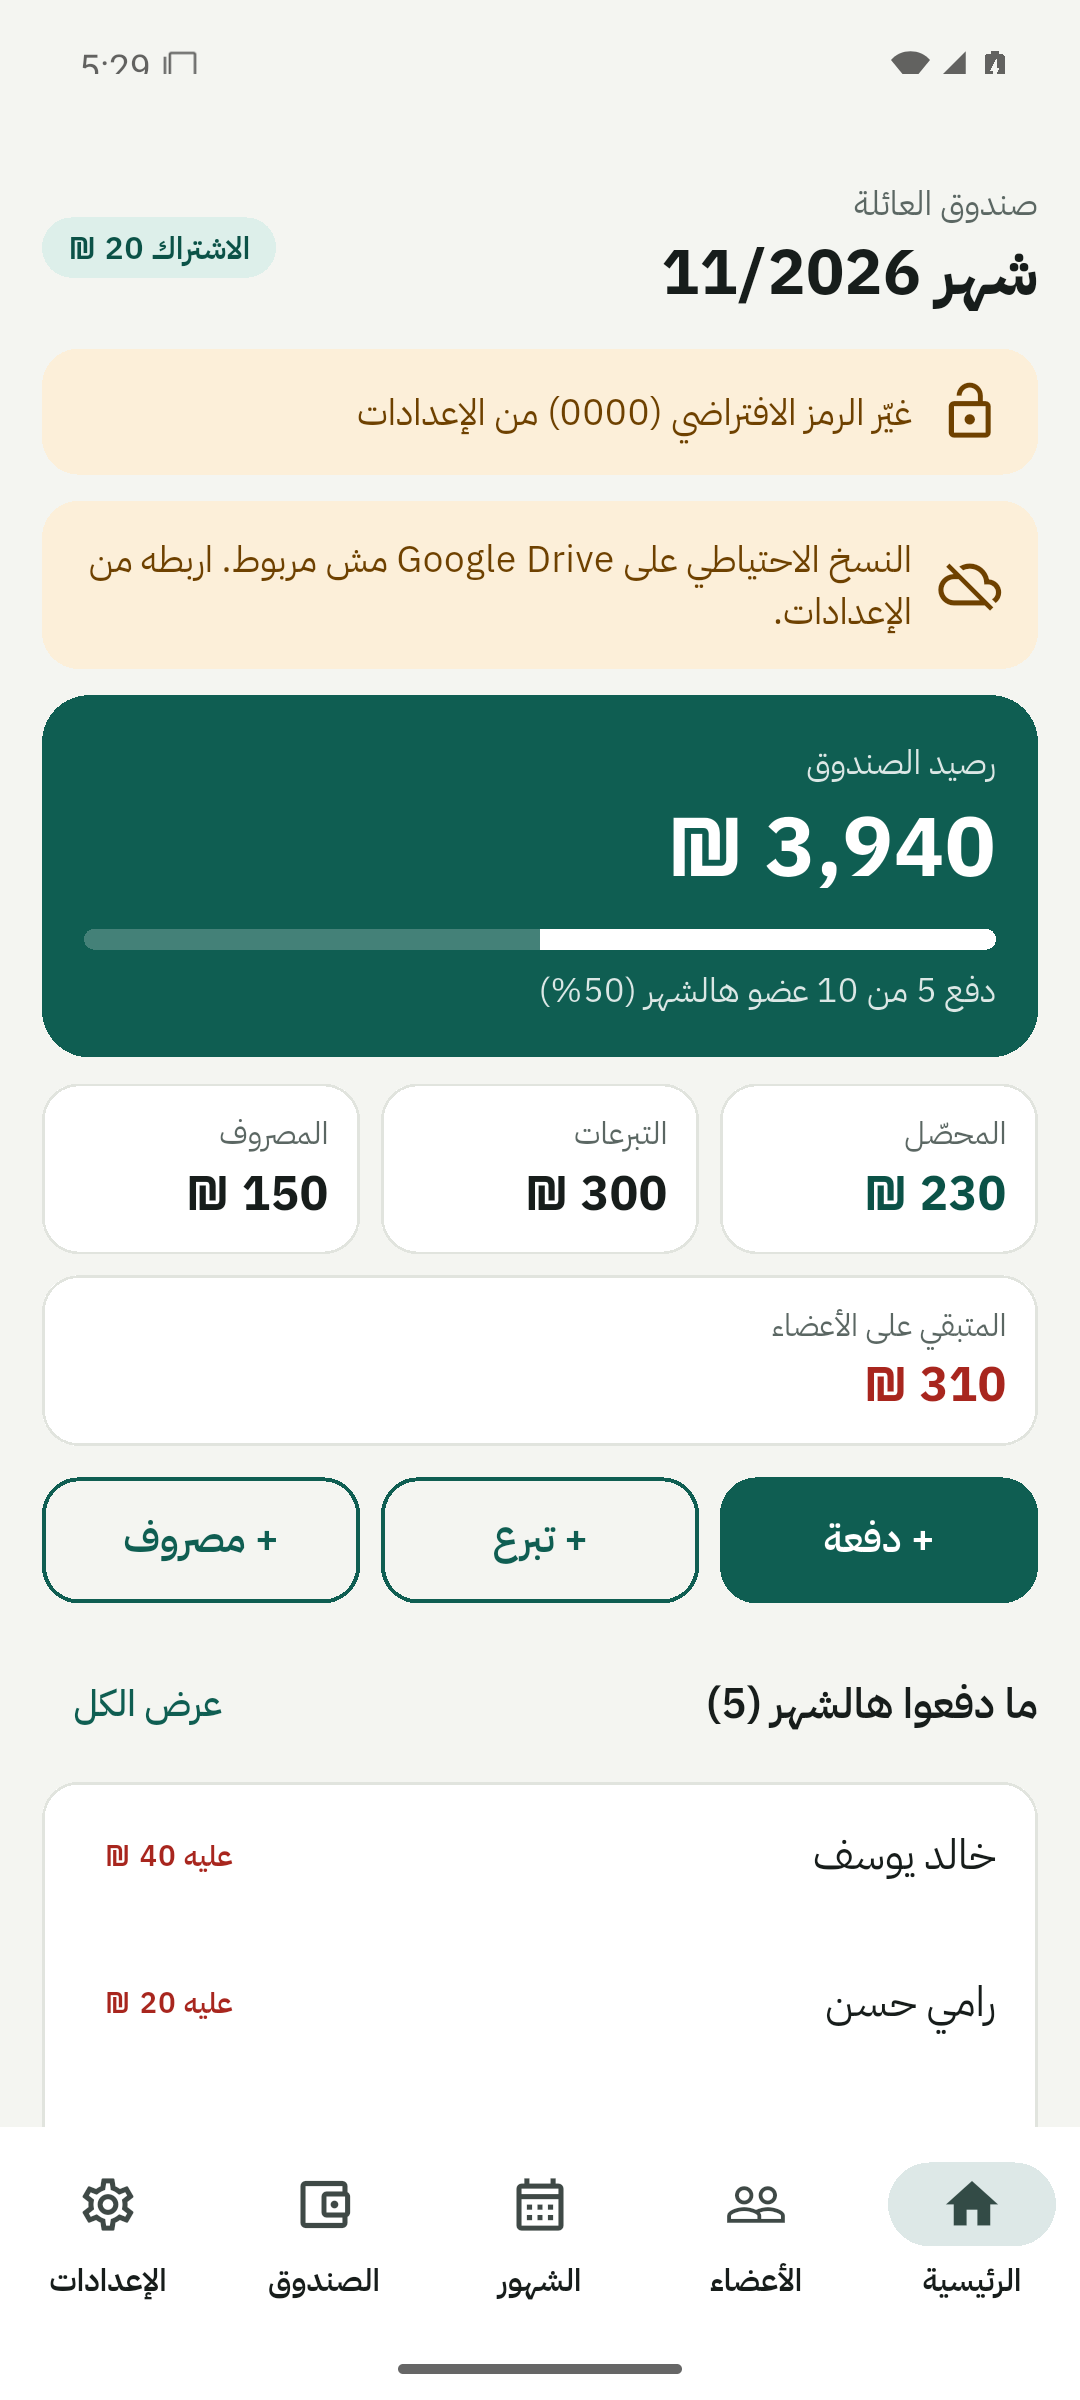
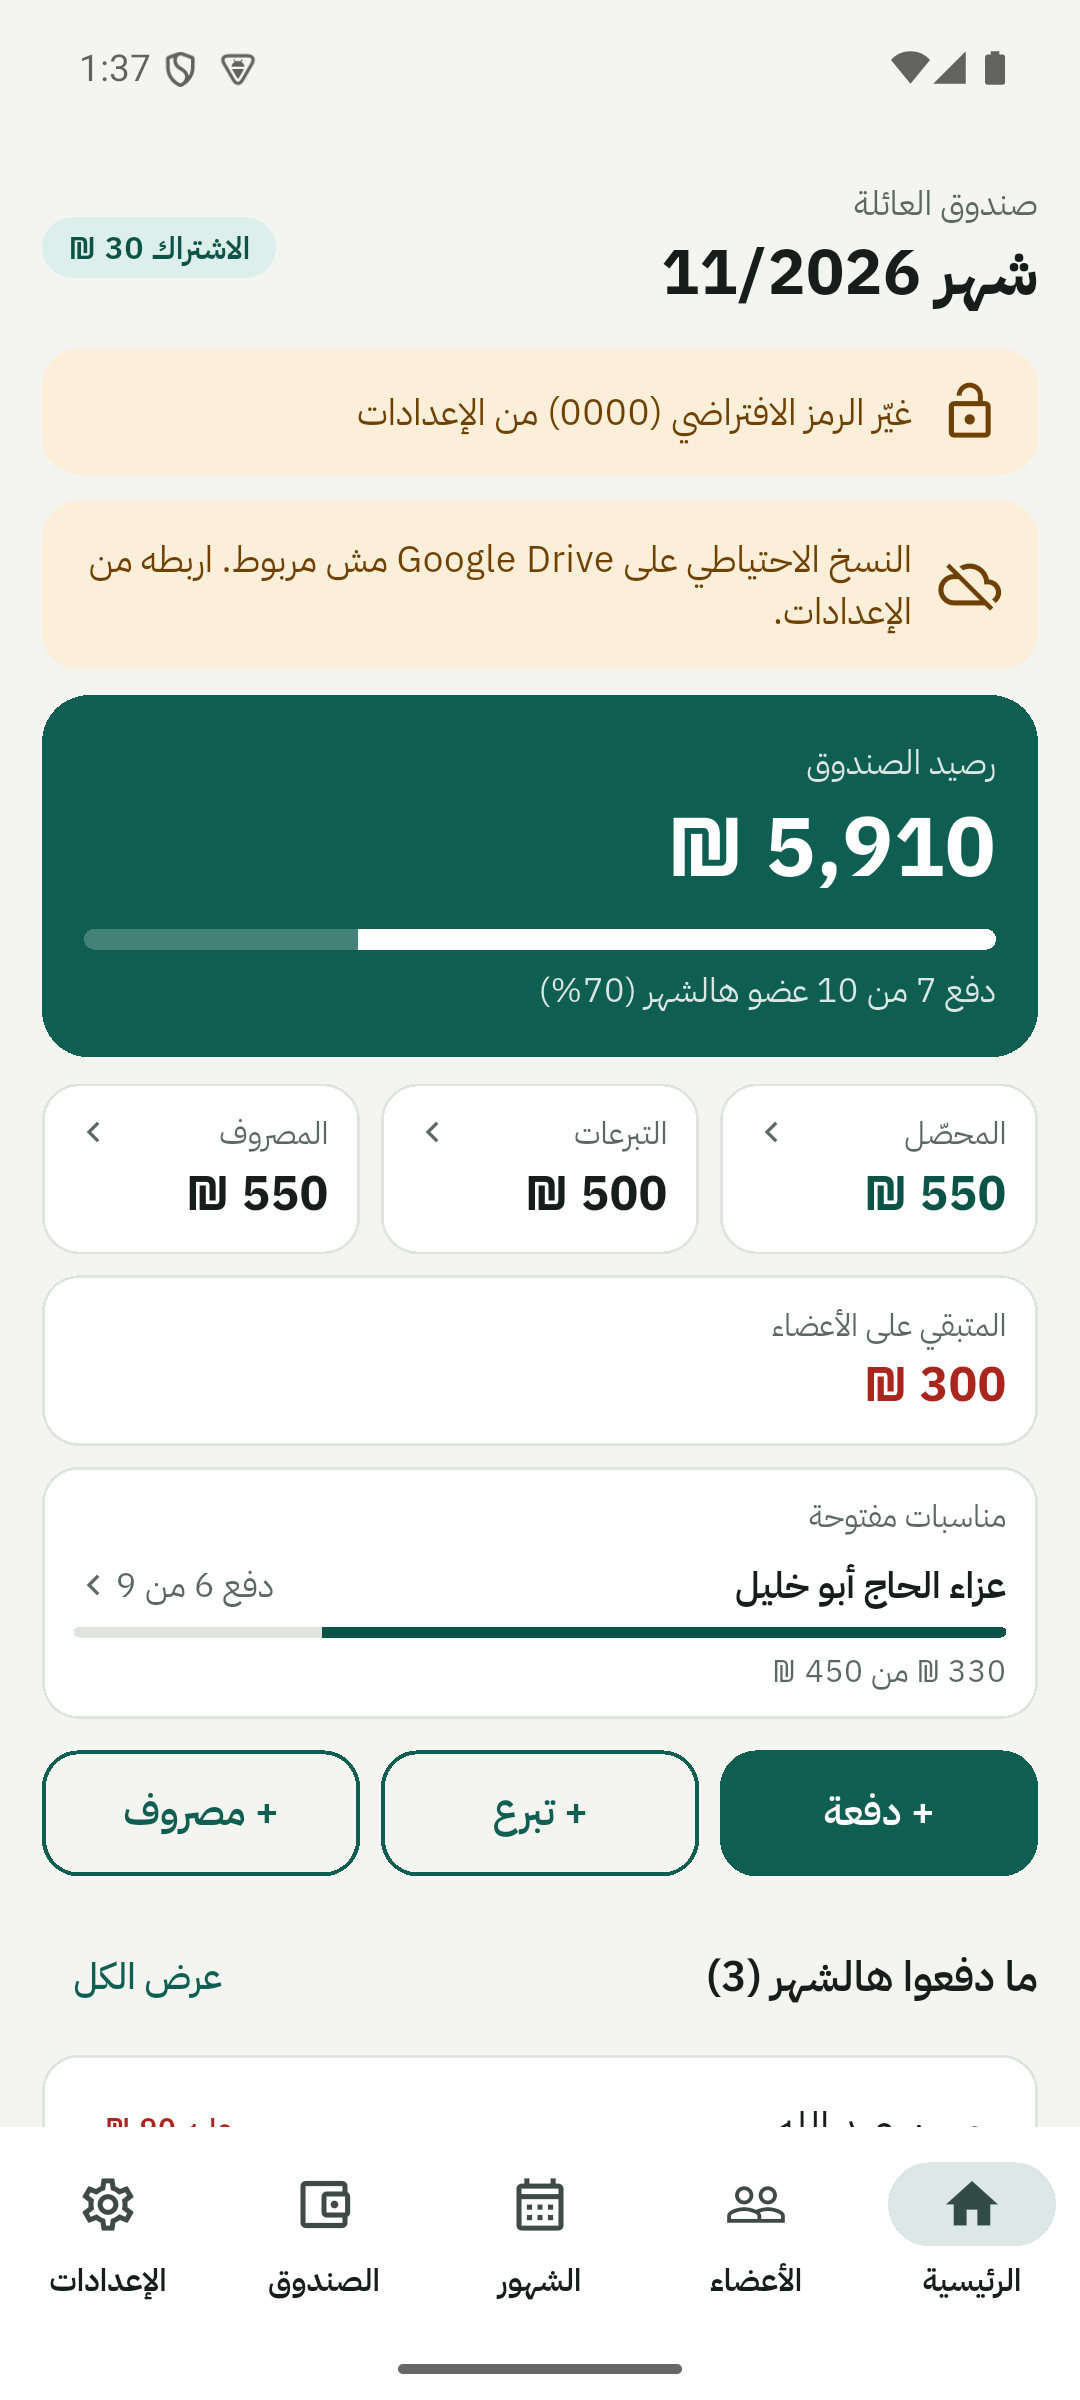
README and screenshots for 1.1.x (occasions)
Claude-Session: https://claude.ai/code/session_01L2mmeYVX6UudPqNHAC5Hbo

diff --git a/README.md b/README.md
@@ -2,7 +2,7 @@
 
 # دفعات — تطبيق صندوق العائلة
 
-تطبيق Android لتسجيل الاشتراكات الشهرية لصندوق العائلة: الدفعات، والتبرعات، والمصاريف، والكشوفات.
+تطبيق Android لتسجيل الاشتراكات الشهرية لصندوق العائلة: الدفعات، والمناسبات (عزا، عرس…)، والتبرعات، والمصاريف، والكشوفات.
 
 ## التنزيل
 
@@ -12,6 +12,14 @@
 - الرمز الافتراضي عند أول فتح: `0000`. غيّره من الإعدادات.
 - بعد هيك، التحديثات بتوصل لحالها من داخل التطبيق.
 
+## شو فيه
+
+- **الأعضاء والاشتراك الشهري:** الدفعة بتسدّ الأقدم أول، والزايد بيصير رصيد للعضو.
+- **المناسبات:** حصة لكل عضو، مع إعفاء بسبب، وتقسيم الدفعة بين المناسبة والاشتراك مع معاينة قبل الحفظ، و«اخصم من رصيده».
+- **الصندوق:** تبرعات ومصاريف (وبتنربط بمناسبة)، ورصيد الصندوق.
+- **التقارير:** كشف شهري، كشف حساب لكل عضو، تقرير لكل مناسبة (PDF)، وملخص للواتساب.
+- **الحماية والنسخ:** رمز PIN، ونسخ احتياطي تلقائي على Google Drive.
+
 ## لقطات شاشة
 
 | | | |
@@ -19,6 +27,7 @@
 | <img src="screenshots/01-lock.png" width="240"> | <img src="screenshots/02-home.png" width="240"> | <img src="screenshots/03-members.png" width="240"> |
 | <img src="screenshots/04-member-detail.png" width="240"> | <img src="screenshots/08-payment-form.png" width="240"> | <img src="screenshots/05-months.png" width="240"> |
 | <img src="screenshots/06-month-detail.png" width="240"> | <img src="screenshots/07-fund-donations.png" width="240"> | <img src="screenshots/09-settings.png" width="240"> |
+| <img src="screenshots/14-occasion.png" width="240"> | <img src="screenshots/15-member-occasions.png" width="240"> | <img src="screenshots/16-collected.png" width="240"> |
 
 **كشف شهري PDF:**
 
